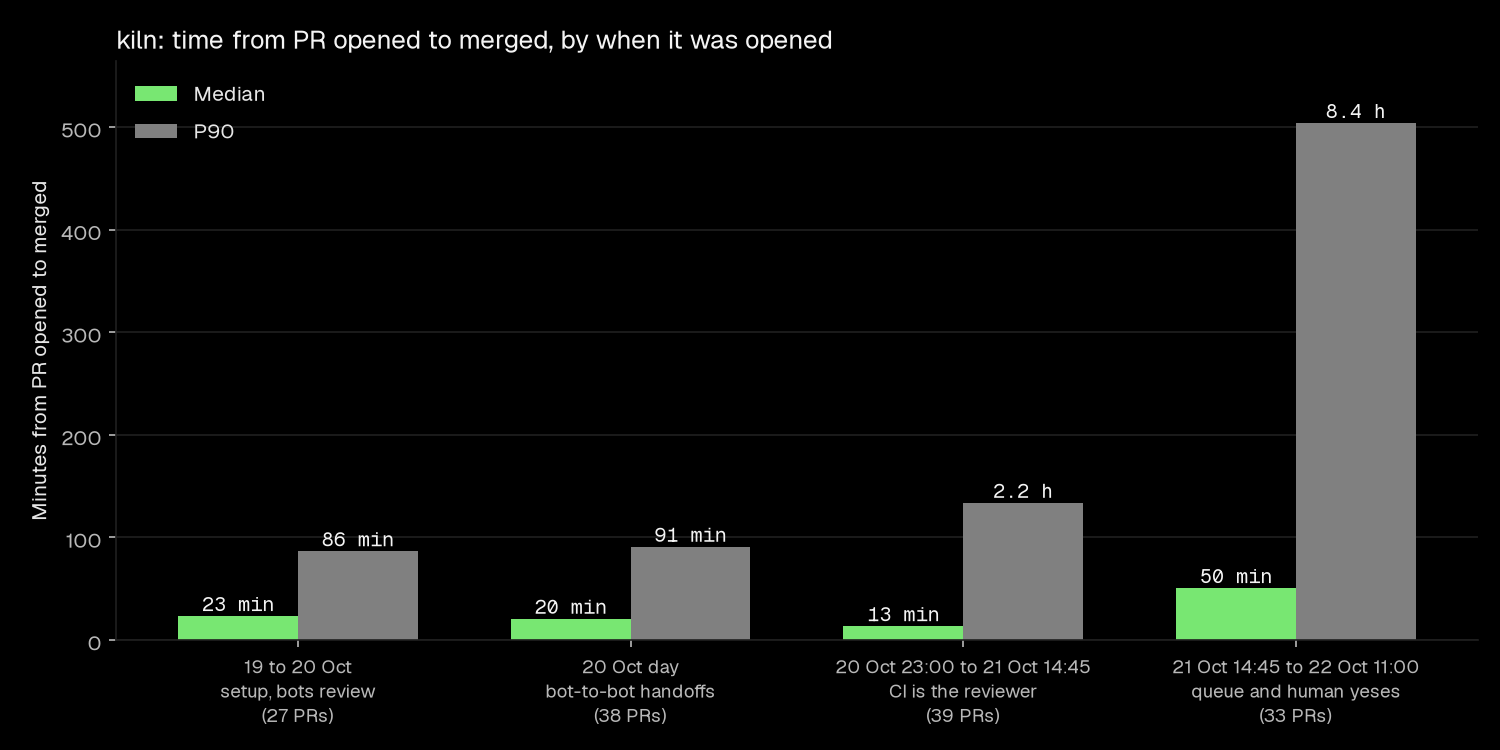
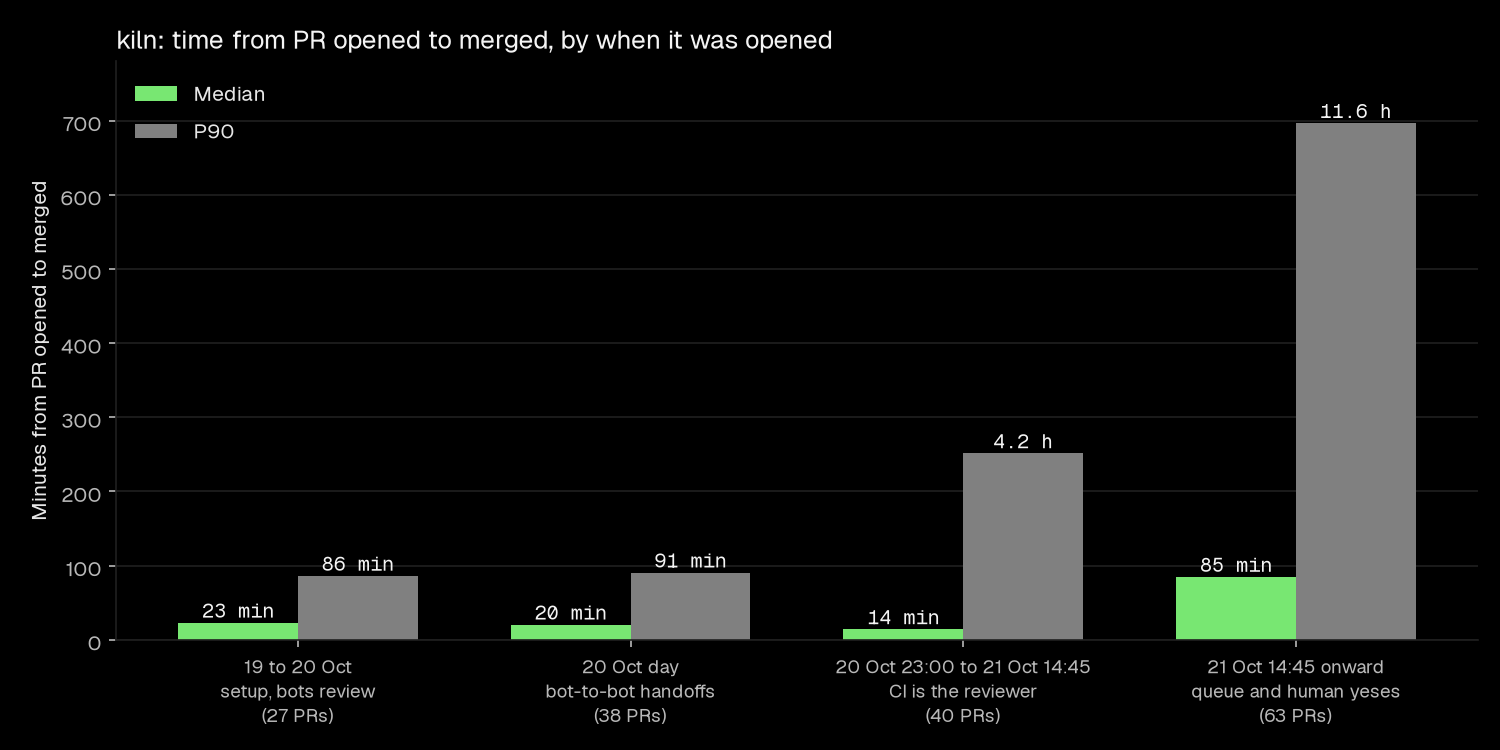
Rewrite kiln post examples for readers new to Kiln, and refresh stats to 23 October

diff --git a/content/posts/dynamic-factories.md b/content/posts/dynamic-factories.md
@@ -12,7 +12,7 @@ Agents can already run most of a software factory. They write the code, open the
 
 Over the past few days I watched a factory start making those choices for itself. It added a specialist when it was missing a skill, retired one that had stopped earning its place, and rewrote its own pipeline from what it measured. I've started calling this a Dynamic Factory. I think it's where agentic factories are heading, and this post describes an early working example.
 
-The product it built is [Kiln](https://github.com/Jabbslad/kiln), a self-hosted tool for booting and deploying Firecracker microVMs on your own bare-metal server. In three days the factory merged 137 PRs and published 61 releases of it. Kiln is what came off the line. This post is about the line.
+The product it built is [Kiln](https://github.com/Jabbslad/kiln), a self-hosted tool that gives you lightweight Linux virtual machines (VMs) on your own server, ready to SSH into. In four days the factory merged 168 PRs and published 86 releases of it. Kiln is what came off the line. This post is about the line.
 
 ## Agentic software factories, and where they stop
 
@@ -55,13 +55,13 @@ It didn't start like that. On the second day the factory looked like this, with 
 
 ![The factory on day two: every handoff waits for another bot's turn](/images/grok-bot-agents-prs/diagram-before.png)
 
-Over the next two days it reshaped itself. Proof's checks moved into CI, and Proof retired. The release tag that someone had to push went away, so a green merge now releases and deploys in the same run. Chief took over as the layer between me and Forge. Perfy joined when lead time needed an owner. This is the factory now:
+Over the next two days it reshaped itself. Proof's checks moved into CI, and Proof retired. The step where someone had to push a release tag by hand went away, so a green merge now releases and deploys in the same run. Chief took over as the layer between me and Forge. Perfy joined when lead time needed an owner. This is the factory now:
 
 ![The factory now: Chief and Perfy set the targets, CI reviews, and a green merge releases and deploys](/images/grok-bot-agents-prs/diagram-after.png)
 
 ## The operating rules
 
-These are the 16 rules the factory runs on. It learnt each one from something that went wrong or took too long while building Kiln, and encoded it into its own checks, roles or targets. I've grouped them by what they govern.
+These are the 16 rules the factory runs on. It learnt each one from something that went wrong or took too long while building Kiln, and encoded it into its own checks, roles or targets. Each example below says what happened, why it mattered and what the factory changed. I've grouped them by what they govern.
 
 ### How it's staffed
 
@@ -69,13 +69,13 @@ These are the 16 rules the factory runs on. It learnt each one from something th
 
 Agents copy whatever is easiest, so the factory's rules make the easy thing the right thing. A few short rules for every job work better than long instructions per task.
 
-Every brief Forge writes tells the agent to use [pstack](https://github.com/cursor/plugins/tree/main/pstack), a skill pack written by Lauren Tan, known online as [poteto](https://x.com/poteto). She's a software engineer at xAI who works on Grok Bot and is on the React Compiler core team, after earlier roles at Cursor, Meta and Netflix, and her posts on running engineering through agents shaped much of this factory. pstack's rules are short: make the smallest diff, fix the root cause, and prove it works. On the first afternoon the agents moved Kiln's installer from Python to bash, added a deploy from GitHub Actions, put the CLI behind sign-in and started serving the dashboard API.
+Every brief Forge writes tells the agent to use [pstack](https://github.com/cursor/plugins/tree/main/pstack), a skill pack written by Lauren Tan, known online as [poteto](https://x.com/poteto). She's a software engineer at xAI who works on Grok Bot and is on the React Compiler core team, after earlier roles at Cursor, Meta and Netflix, and her posts on running engineering through agents shaped much of this factory. pstack's rules are short: make the smallest diff, fix the root cause, and prove it works. Working to those rules, the agents rewrote Kiln's installer, set up automatic deploys, put the command-line tool behind sign-in and gave the dashboard its API, all on the first afternoon.
 
 #### 2. The slow part is the waiting, so automate every handoff
 
 When a stage waits for someone to notice it's their turn, it waits a long time. Every handoff in the factory starts on its own.
 
-Early on, a review took about 15 minutes and every fail meant another round trip. One PR sat idle after rework because nobody asked for a new review. So the factory removed the turns. The review verdict became a commit status, which gave the merge a gate that a machine can read. Then a release tag started the deploy. Then the tag went too. A green push to main now picks the next version, builds, attests, publishes and deploys in the same run, and nobody has pushed a tag by hand since.
+Early on, a review took about 15 minutes, and every failed review meant another round trip. One PR sat idle after it was reworked, because nobody asked for a new review. So the factory removed the turns. The reviewer's verdict became a status on the commit, which the merge step could read without waiting for anyone. Next, pushing a release tag started the deploy. Then the tag step went too. Now a green change on main picks its own version number, then builds, signs, publishes and deploys in one run, and nobody has pushed a tag by hand since.
 
 ### How quality is built in
 
@@ -110,29 +110,29 @@ how do you trust your agents' work more? copy this post/link and give it to your
 this forms an inverse pyramid: you want most of your effort at the top, least at the bottom.
 {% end %}
 
-Proof was a review step on every PR, the layer she spends least on, so the factory retired it. CI flags any PR that touches workflows, deploys, sign-in or secrets as risky. Releases carry GitHub build attestations, and CI checks every signature before it publishes a release.
+Proof was a review step on every PR, the layer she spends least on, so the factory retired it. CI flags any PR that touches the CI setup, deploys, sign-in or secrets as risky. Every release is signed when it's built, and CI checks the signatures before it publishes anything.
 
 #### 4. If a bot checks it by hand, it should be a CI job
 
 A check that lives in a bot's head runs when the bot gets round to it. A check in CI runs on every push. Every incident also leaves a guard behind, so the same mistake fails the build next time.
 
-Proof knew how to drive a change like a user. Kiln Ops knew to run the doctor command and boot a smoke box. Forge knew to ask for a new review after a push. All of that is code now. CI guards attestations, secrets and tool downloads, and refuses a release whose tag doesn't match the version in the code. poteto [reviews the videos and screenshots her agents record](https://x.com/poteto/status/2107529532144234937) rather than reading every diff, so any PR that changes the dashboard or the CLI now carries before and after screenshots from a script anyone can rerun.
+Proof knew to try a change the way a user would. Kiln Ops knew to run the server's health check and start a throwaway VM after each deploy. Forge knew to ask for a new review after a push. All of that is code now. CI checks that only main and release builds can sign a release, that no secret is written straight into a script, and that every downloaded tool is checked against its checksum before it's used. It also refuses a release whose version label doesn't match the version in the code. poteto [reviews the videos and screenshots her agents record](https://x.com/poteto/status/2107529532144234937) rather than reading every diff, so any PR that changes the dashboard or the command-line tool now carries before and after screenshots from a script anyone can rerun.
 
-The guards came from mistakes. Once, the deploy ran with an empty SSH key, because GitHub doesn't pass secrets into a reusable workflow unless the caller asks. The fix came with a CI check that fails any caller that forgets. In the 165 PR builds after the afternoon of 21 October, 49 went red before merge.
+The guards came from mistakes. Once, a deploy ran without its SSH key. The deploy was a shared workflow that another workflow called, and GitHub only passes secrets on to a shared workflow when the caller asks, so the key arrived empty. The fix came with a CI check that fails any caller that forgets. In the 266 PR builds since the afternoon of 21 October, 91 went red before merge.
 
-One test proved that the release check refuses a binary with the wrong version by downloading a real old release from GitHub. The download had no timeout, so a slow network could stall CI with no sign of which test was stuck. CI now stops any test that runs too long and prints its name, and a job that hangs still leaves its full log behind.
+One test checked that CI refuses a release with the wrong version number. To get one, it downloaded a real old release from GitHub with no timeout, so a slow network could stall CI with no sign of which test was stuck. CI now stops any test that runs too long and names it, and a job that hangs still leaves its full log behind.
 
 #### 5. A check that only runs after merge doesn't protect main
 
 If a test only runs on main, the PR that breaks it will look green.
 
-When the CI checks moved from Python to Rust, the Windows client job on main failed straight away. A test read a bash script, Git on Windows checked the script out with Windows line endings, and the parser panicked. The PR had passed because that test only ran on pushes to main. Main stayed red for about four hours, until a fix landed and the same tests started running on pull requests. A release tag later failed while stamping the version, so the whole release path now gets a dry run on every pull request too.
+When the CI checks were rewritten from Python to Rust, the Windows build on main failed straight away. Git on Windows had checked out a script with Windows line endings, and a test that read the script crashed on them. The PR had passed because that test only ran after merge. Main stayed red for about four hours, until a fix landed and the same tests started running on every PR. Later, a release failed at the step that writes its version number in, so the whole release process now gets a practice run on every PR too.
 
 #### 6. Green has to mean live
 
 A deploy checks what's running on the server, not only that its own steps finished.
 
-One release shipped a new dashboard, but the deploy never installed it. The server kept serving the old one and the job still went green. Now every deploy installs the dashboard and fails if the live site serves anything other than the bundle in the release. After restarting the sign-in service, the deploy also checks that the login page still answers before it carries on.
+One release included a new web dashboard, but the deploy never installed it. The server kept serving the old one, and the deploy still reported success. Now every deploy fails unless the live site serves exactly the files in the release. When a deploy restarts the login service, it also checks that the login page still loads before it carries on.
 
 #### 7. Checks must test the real path
 
@@ -140,31 +140,31 @@ A check is only as good as the path it takes. The factory tests from the outside
 
 It learnt this three ways in one day.
 
-*From the outside.* When SSH went through Kiln's public front door, the deploy check passed because it called the door service directly on the server. From a laptop, the request goes through a web proxy first. The proxy spoke HTTP/2 to the door, and HTTP/2 can't carry the SSH upgrade request, so every real user got an error. The fix pinned the proxy to HTTP/1.1 and moved the check onto the public address that laptops use. The new check then failed the next deploy, correctly, because the deploy never updated the live proxy config. Fixing that took a decision from me and a one-off manual change by Kiln Ops.
+*From the outside.* Kiln lets users SSH into their VMs through a public address. The deploy's check for that passed, because it called the SSH service directly on the server. Real users go through a web proxy first, and the proxy was set up in a way that couldn't carry SSH connections, so every real user got an error. The fix changed the proxy setting and moved the check onto the public address users connect to. The new check then failed the next deploy, correctly, because the deploy had never updated the live proxy settings. Fixing that took a decision from me and a one-off manual change by Kiln Ops.
 
-*In typed code.* Three deploys in a row failed at a new dashboard metrics check. The first two times, the host CPU value came back empty. The third time, the check script needed `jq`, which the server doesn't have. The check is now a typed Rust self-check inside the server binary, and CI fails if a deploy script calls `jq`.
+*In typed code.* Three deploys in a row failed at a new check that the dashboard's server stats were working. Twice the CPU figure came back empty. The third time, the check script needed a JSON tool, `jq`, that the server doesn't have. The check is now typed Rust code built into the server itself, and CI fails any deploy script that calls `jq`.
 
-*On an upgrade.* A change moved the server's operation journal to a new schema version. The installer only accepted the old version, so the next upgrade failed halfway through. A fresh install would have worked. CI now rehearses an upgrade from an old journal and checks that the server and installer agree on the version. Separately, the sign-in service had reported the same old version for many releases, because the deploy skipped replacing it whenever the bytes matched.
+*On an upgrade.* A change moved a file the server keeps, a log of every action it takes, to a new format. The installer only accepted the old format, so the next upgrade failed halfway through. A fresh install would have worked. CI now rehearses an upgrade from the old format and checks that the server and installer agree on which format is current. Separately, the login service had reported the same old version number for many releases. The deploy skipped replacing it whenever the new copy matched the old one apart from its version label.
 
 #### 8. Every fix brings a new bug, so make undoing cheap
 
 At this speed, fixes cause their own problems. The factory keeps each step narrow, rolls back without waiting for a person, and hides unfinished features behind a one-line switch.
 
-A deploy opened so many SSH connections that it hit the server's limit and failed. The fix shared one connection for the whole job. That fix had its own bug. Cleanup ran after the shared connection had closed. The follow-up landed 47 minutes later, with a test that refuses SSH calls once the connection has gone.
+A deploy opened so many SSH connections to the server that it hit the server's limit and failed. The fix shared one connection for the whole deploy. That fix had its own bug. The clean-up step ran after the shared connection had closed. The follow-up landed 47 minutes later, with a test that fails if anything uses the connection after it has closed.
 
-Kiln's dashboard now has one typed list of features, each marked available or not yet, and tests fail if an unfinished feature looks broken. The first time the dashboard showed SSH commands, they didn't work from a laptop. The revert took the same 10 minutes from merge to live as the mistake had. The second time, hiding them again was a one-line change that merged 37 minutes after the feature it hid. When the upgrade failed on the journal schema, the installer put the previous version back.
+The dashboard now has one list of features, each marked ready or not yet, and tests fail if an unfinished one shows up looking broken. The first time the dashboard showed users how to connect over SSH, the instructions didn't work for real users yet. Reverting took the same 10 minutes from merge to live as the mistake had. The second time, hiding them again was a one-line change that merged 37 minutes after the feature it hid. When the upgrade failed on the new file format above, the installer put the previous version back.
 
-The factory reverts first and fixes second. Two releases went wrong in one night, and each time it shipped a revert straight away and only then worked on the fix. A change to how the server checks sign-in tokens had broken dashboard sign-in. It came back reworked about five hours later, in a release of its own. The other release failed when the deploy's smoke test couldn't create a box, and a failed run had left its box behind under a fixed name, so later deploys clashed with it. Smoke boxes now get unique names and are removed even when the test fails.
+The factory reverts first and fixes second. Two releases went wrong in one night, and each time it shipped a revert straight away and only then worked on the fix. A change to how the server checks who is signed in had stopped anyone signing in to the dashboard. It came back reworked about five hours later, in a release of its own. The other release failed its final deploy test, which starts a throwaway VM, and the failed run left that VM behind under a fixed name, so later deploys clashed with it. Test VMs now get unique names and are removed even when the test fails.
 
-An undo is only cheap if the old version is really there. One deploy report listed the same checksum for the sign-in service backup as for the new release. The report turned out to be wrong and the backup was fine, but the check also found that the installer hadn't kept its own copy of one sign-in service version. Rolling back to that version would have relied on the backup folder alone. Before the next sign-in change, the factory now checks that the backup holds the version it expects.
+An undo is only cheap if the old version is really there. One deploy report said the backup of the login service was the same file as the new release, which would have left nothing to roll back to. The report turned out to be wrong, and the backup was fine. But checking it showed that the installer hadn't kept its own copy of one earlier version, so rolling back to that version would have depended on a single backup. Before the next login change, the factory now checks that the backup holds the version it expects.
 
-The factory doesn't fully meet this rule yet. If a deploy fails at a check after the install, the new version stays in place even though the deploy shows red. That happened during the metrics failures above.
+The factory doesn't fully meet this rule yet. If a deploy fails at a check after the install, the new version stays in place even though the deploy shows red. That happened during the server stats failures above.
 
 #### 9. Retry only the failure you understand
 
 Blanket retries hide real problems. The factory retries the one flaky thing it has diagnosed, and fails loudly on everything else.
 
-One release never got published, because the signature checker failed to start on GitHub's side. The tag existed, but the release didn't. The fix retries that exact error three times with a short backoff. Any other verification failure still fails on the first attempt and prints what went wrong.
+One release never got published, because the tool that checks its signatures failed to start on GitHub's side. The version was tagged, but nothing was published. The fix retries that exact error three times with a short wait between tries. Any other signature failure still fails on the first attempt and prints what went wrong.
 
 ### How it measures and tunes itself
 
@@ -172,7 +172,7 @@ One release never got published, because the signature checker failed to start o
 
 A single total hides the cause. The factory breaks the time from open to live into stages, and one bot is responsible for the number.
 
-Perfy measured the 46 PRs merged after a green main started releasing itself. Merge to live takes about 12 minutes at the median, which is fine. The surprise was before the merge. Green PRs waiting to be merged made up about 78% of all the time those PRs spent open. The total would never have shown that.
+When Perfy first measured, it took the 46 PRs merged since every green merge started releasing itself. Merge to live took about 12 minutes at the median, which is fine. The surprise was before the merge. Green PRs waiting to be merged made up about 78% of all the time those PRs spent open. The total would never have shown that. A day later, across 75 PRs, the figure was 71%. The wait is still most of the time.
 
 That measuring job is why Perfy exists. It keeps the stage breakdown current and agrees speed targets with Chief, so someone looks after the number every day rather than when I happen to check.
 
@@ -180,7 +180,7 @@ That measuring job is why Perfy exists. It keeps the stage breakdown current and
 
 A faster pipeline only counts if it isn't breaking more. A speed target holds only while the flake rate, deploy failure rate and change failure rate stay the same or improve.
 
-Flaky failures are rare, about 0.1% of job runs. Deploy failures are not. About 14% of deploys since releases became automatic failed, mostly at the new checks that run after the install. Roughly one merged PR in six was a fix or revert of something merged the day before. That last figure is rough, because a follow-up isn't always a fix for a failure.
+Flaky failures are rare, about 0.2% of job runs. Deploy failures are not. About 11% of deploys since releases became automatic failed, 8 out of 70, all in the install step, which also runs the checks after the install. Roughly one merged PR in six was a fix or revert of something merged the day before. That last figure is rough, because a follow-up isn't always a fix for a failure.
 
 Perfy checks these limits every weekday alongside the speed numbers. The rules that keep quality up don't bend to meet a target. CI is still the reviewer, and anything a bot checks by hand still becomes a coded check.
 
@@ -188,13 +188,13 @@ Perfy checks these limits every weekday alongside the speed numbers. The rules t
 
 A stage is only worth speeding up if it's on the critical path. The factory looks at what else has to finish first.
 
-Skipping the duplicate test run on main after a merge looked like an easy win, since the tests had already passed on the PR. Measured, it saves about 1.4 minutes at the median. The tests run alongside packaging and signing, which finish only slightly earlier, so the release still waits.
+Skipping the duplicate test run on main after a merge looked like an easy win, since the tests had already passed on the PR. When Perfy measured it, it saved about 1.4 minutes at the median. The tests run alongside packaging and signing, which finish only slightly earlier, so the release still waits.
 
 #### 13. Treat a slowing build as a warning sign
 
 Build time creeps up one reasonable change at a time. The factory tracks it, because nobody notices a slow drift.
 
-The median PR CI run went from about 2 minutes on the first day to about 10 by the fourth. Each new check was worth adding, and nobody noticed the total until Perfy measured it. A typical PR now goes round CI three or four times before it merges, so the extra minutes add up.
+The median PR CI run went from about 3 minutes on the first day to about 10 by the fourth, and it hasn't come down since. Each new check was worth adding, and nobody noticed the total until Perfy measured it. A typical PR now goes round CI about four times before it merges, so the extra minutes add up.
 
 ### Where the human sits
 
@@ -206,31 +206,31 @@ At first I asked Grok Bot to start coding jobs directly, and my chat filled with
 
 #### 15. Once the machine is fast, the queue and the human are the bottleneck
 
-When merge to live takes about 12 minutes, the slow part moves to the merge queue and to anything waiting for a person. The list of things that need a yes stays short.
+When merge to live takes about 13 minutes, the slow part moves to the merge queue and to anything waiting for a person. The list of things that need a yes stays short.
 
 The bots have a standing yes for routine PRs, merges, releases and deploys. A short list still needs me: force-pushes, tags and branches, repo settings, secrets and keys, server access keys, and anything touching identity or login.
 
-That list is where the time goes now. The PR that changed how Kiln's dashboard gets its login token touched login, so it waited for me, and it took about 24 hours from open to merge, the longest of the lot. The proxy fix above waited for my decision in the morning. The rest of the slow tail is the queue. PRs merge one at a time, and a long PR keeps having to merge main back in while others go first. Three PRs took between 12 and 15 hours.
+That list is where the time goes now. The PR that changed how the dashboard signs users in touched login, so it waited for me. It took about 24 hours from open to merge, the longest of the lot. The proxy fix above waited for my decision in the morning. The rest of the slow tail is the queue, my yeses, or both. PRs merge one at a time, and a long-running PR has to keep catching up with main while others go first. Seven more PRs took between 12 and 24 hours.
 
-Risky PRs wait longest. The slowest tenth of them sat green and unmerged for more than nine hours, and several went green in the afternoon but didn't merge until the early hours. Meanwhile, 15 PRs merged overnight with nobody awake. The automated stages keep up. The waits are in the queue and with me.
+Risky PRs wait longest. Of the risky PRs opened since the queue became the bottleneck, the slowest tenth sat green and unmerged for more than ten hours, and several went green in the afternoon but didn't merge until the early hours. Meanwhile, 15 PRs merged overnight on 22 October with nobody awake. The automated stages keep up. The waits are in the queue and with me.
 
 #### 16. Merge in batches, and test each batch like a user
 
 Rule 15 says the queue is the bottleneck. This is how the factory answered it.
 
-GitHub's merge queue isn't available for a personal repo, so the release loop does the batching itself. It takes the PRs that are green and merges them one after another as a cut, aiming for one build, one release and one deploy per cut. Straight after the deploy, coded checks and a swarm of agents use Kiln as a real user would. They create, start, stop and delete real throwaway boxes, sign in, and check that a logged-out request gets refused. The cut only counts as done once that passes. Anything it finds goes back as a fix or a rollback. Risky changes, such as anything touching the sign-in service, go out in a cut of their own.
+GitHub's merge queue isn't available for a personal repo, so the release loop does the batching itself. It takes the PRs that are green and merges them one after another as a cut, aiming for one build, one release and one deploy per cut. Straight after the deploy, coded checks and a swarm of agents use Kiln as a real user would. They create, start, stop and delete real throwaway VMs, sign in, and check that a logged-out request gets refused. The cut only counts as done once that passes. Anything it finds goes back as a fix or a rollback. Risky changes, such as anything touching the login service, go out in a cut of their own.
 
 On 23 October the loop shipped six releases this way, each live and verified between 10 and 22 minutes after its merge. The last cut held two PRs merged back to back, and both were live and verified about 19 minutes after the merge. That cut also shows what's left to do. Each merge still started its own release, so the factory hasn't reached one release per cut yet.
 
 ## What came off the line
 
-Kiln boots Firecracker microVMs, called boxes, on a bare-metal server. You ask for a box and get SSH, a dashboard and a sign-in, and Kiln's installer handles upgrades and rollbacks on the server. Its output over three days, starting from the first PR at 12:58 on 19 October, is the best evidence I have that the factory works:
+Kiln runs lightweight virtual machines on your own server, using Firecracker, the VM technology behind AWS Lambda. You ask for one and get SSH access, a web dashboard and sign-in, and Kiln's installer handles upgrades and rollbacks. Its output over four days, from the first PR at 12:58 on 19 October to the morning of 23 October, is the best evidence I have that the factory works:
 
-- 137 PRs merged, out of 149 opened.
-- 61 releases went out.
-- Merge to live takes about 12 minutes at the median, since a green merge started releasing and deploying itself.
+- 168 PRs merged, out of 176 opened.
+- 86 releases went out.
+- Merge to live takes about 13 minutes at the median, since a green merge started releasing and deploying itself.
 - 15 PRs merged between midnight and 8am on 22 October, with nobody watching.
-- Open-to-merge time fell to a median of 13 minutes once CI became the reviewer, then rose to 50 minutes as the queue and my yeses became the bottleneck.
+- Open-to-merge time fell to a median of 14 minutes once CI became the reviewer, then rose to 85 minutes as the queue and my yeses became the bottleneck.
 
 ![PRs opened and merged per hour on Kiln, with release times marked](/images/grok-bot-agents-prs/prs-per-hour.png)
 
@@ -250,7 +250,7 @@ A few things carry over from the rules. Review capacity won't keep up with agent
 
 ## What's next for the factory
 
-- A slow lane for risky PRs, so routine work doesn't queue behind them. It's open now. CI already skips jobs a change can't affect.
+- A slow lane for risky PRs, so routine work doesn't queue behind them. The first part has merged. CI already skips jobs a change can't affect.
 - A daily SLO check on lead time and the quality limits, so a slip in either shows up within a day.
 - Roll back on any failed check, not only a failed install.
 - Run the deploy's final checks on a throwaway stand-in server in CI, so a bad check fails there and not on the real one.
